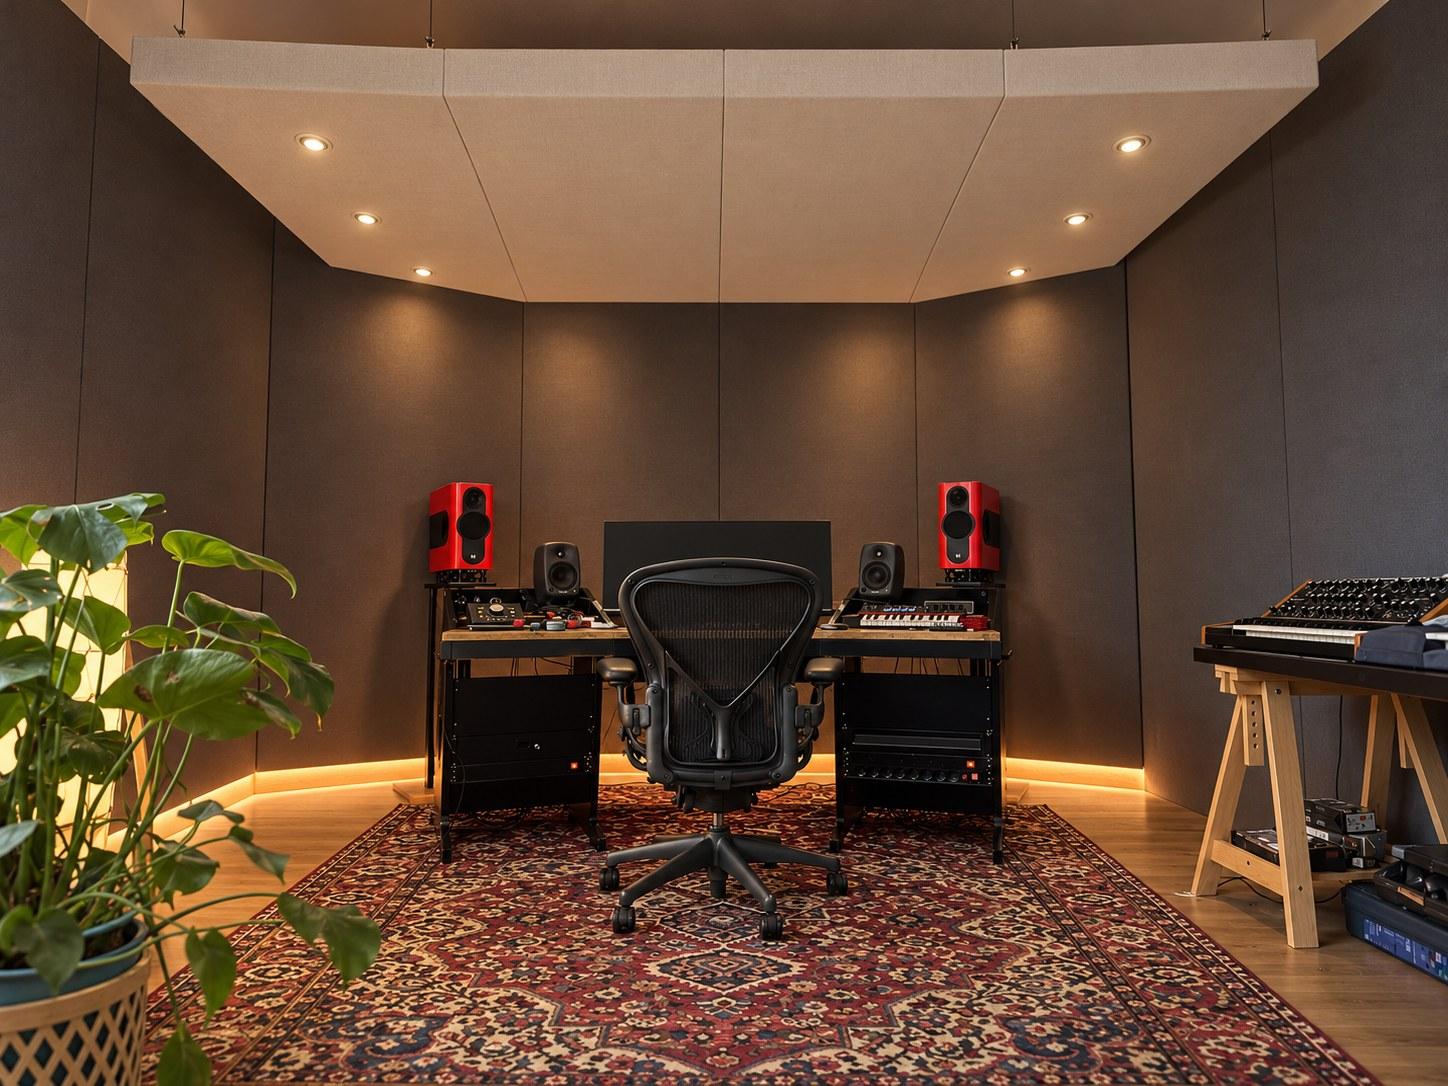
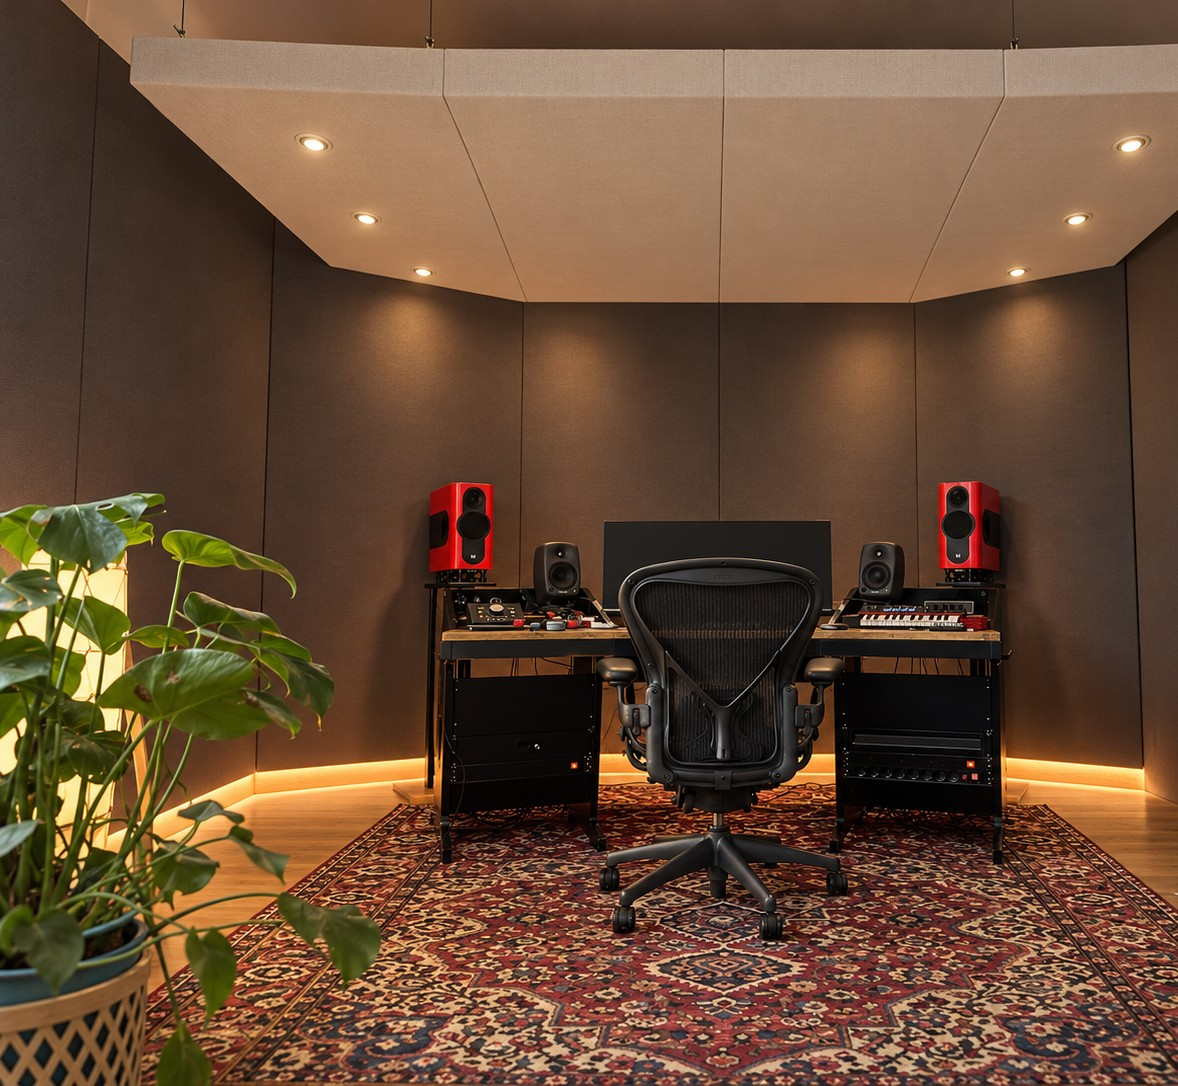
Preview: crop sawhorse table out of hero render, subhead copy tweak
Claude-Session: https://claude.ai/code/session_01KSFk1vhzgp3kEEiESpKSoj

diff --git a/index.html b/index.html
@@ -47,7 +47,7 @@ nav.scrolled{background:rgba(7,11,16,.92);backdrop-filter:blur(16px);border-bott
 .lang-btn{background:transparent;border:0;color:var(--faint);font-family:var(--mono);font-size:9px;letter-spacing:.1em;padding:6px 10px;cursor:pointer}
 .lang-btn.active{color:var(--cream);background:rgba(238,233,227,.08)}
 .hero{min-height:94vh;position:relative;display:flex;align-items:center;overflow:hidden;padding:10rem 0 6rem}
-.hero-bg{position:absolute;inset:0;background:url('studio-hero.jpg') 50% 66%/auto 135% no-repeat;filter:saturate(.95) contrast(1.04) brightness(.92);transform:scale(1.02)}
+.hero-bg{position:absolute;inset:0;background:url('studio-hero.jpg') 50% 64%/cover no-repeat;filter:saturate(.95) contrast(1.04) brightness(.92);transform:scale(1.02)}
 .hero:after{content:"";position:absolute;inset:0;background:linear-gradient(90deg,rgba(7,11,16,.84) 0%,rgba(7,11,16,.55) 40%,rgba(7,11,16,.32) 100%),linear-gradient(0deg,rgba(7,11,16,.78) 0%,rgba(7,11,16,.10) 42%,rgba(7,11,16,.50) 100%)}
 .hero-inner{position:relative;z-index:2;max-width:760px}
 .kicker,.section-marker{font-family:var(--mono);font-size:.72rem;letter-spacing:.18em;text-transform:uppercase;color:var(--copper2);margin-bottom:1.5rem;display:block}
@@ -167,8 +167,8 @@ footer{border-top:1px solid var(--line2);padding:2.5rem 0;color:var(--faint);fon
     <span class="kicker reveal en">Mastering · Stem Mastering · Mixing</span>
     <span class="kicker reveal de">Mastering · Stem Mastering · Mixing</span>
     <h1 class="reveal">Your track is close.<br>Let's get it <em>across the finish line.</em></h1>
-    <p class="hero-sub reveal en">Your track has to work everywhere. From an iPhone to a Funktion-One.</p>
-    <p class="hero-sub reveal de">Dein Track muss überall funktionieren. Vom iPhone bis zur Funktion-One.</p>
+    <p class="hero-sub reveal en">Your track has to work everywhere, from an iPhone to the mighty Funktion-One.</p>
+    <p class="hero-sub reveal de">Dein Track muss überall funktionieren, vom iPhone bis zur mächtigen Funktion-One.</p>
     <p class="hero-note reveal en">Mixing, stem mastering and mastering for electronic and pop records.</p>
     <p class="hero-note reveal de">Mixing, Stem Mastering und Mastering für elektronische und Pop-Produktionen.</p>
     <div class="btn-row reveal">
